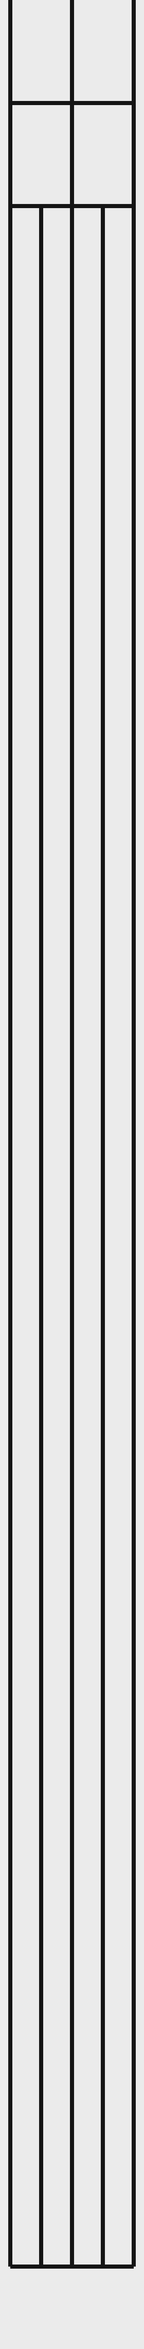
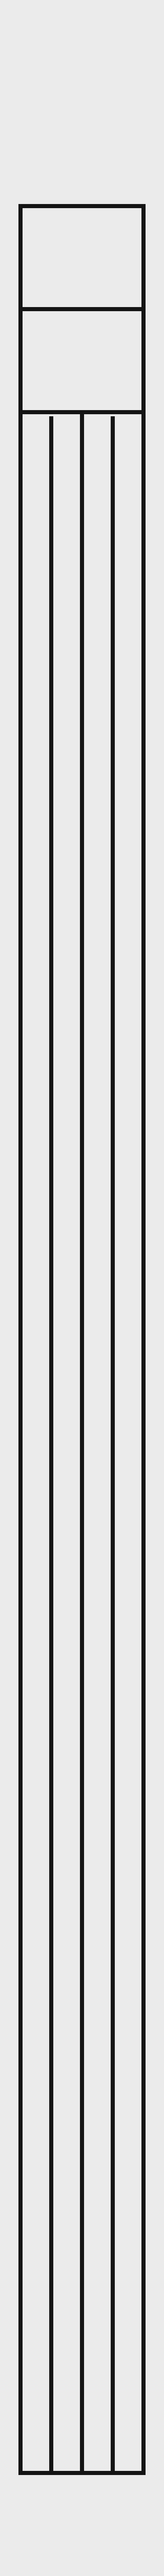
Dragster world from the rules (section IV, Figures 4-6): lanes, finish, stopping zones and the start-light gantry

Changed region(s): [[0.0571, 0.0, 0.9429, 0.9681]]

diff --git a/gazebo/make_world.py b/gazebo/make_world.py
@@ -6,6 +6,9 @@ images where the 20 mm line is 10 px wide, i.e. 2 mm per pixel (Portimao's drawn
 drive axle 37 mm from the back, a 8.94 mm castor ball 128 mm from the back, the camera board at the front.
 
     python gazebo/make_world.py TRACK      (monza | portimao | suzuka | dragster; writes worlds/TRACK.sdf)
+
+The Dragster floor comes from make_dragster_texture.py (rules dimensions) and its world adds the start-light
+gantry over the start line.
 """
 # References (full entries: docs/references.md at the repository root):
 #   [R1] ISEP, TrackBotGP competition rules (2026 Robotics@ISEP Open): track figures
@@ -19,8 +22,8 @@ HERE = os.path.dirname(os.path.abspath(__file__))
 MM_PX = 2.0                      # mm per drawing pixel (20 mm line = 10 px)
 # the finish line on the main straight, in drawing pixels (x, y), and the start heading (up the drawing)
 FINISH_PX = {"monza": (107, 840), "portimao": (109, 804), "suzuka": (116, 409),
-             # dragster (texture from the rules dimensions): left lane centre, just behind the start line
-             "dragster": (100, 5500)}            # the start line (400 mm from the near end)
+             # dragster (make_dragster_texture.py): left lane centre on the start line
+             "dragster": (125, 6000)}
 
 
 def wsl_path(p):
@@ -84,6 +87,36 @@ def robot_model(pose=(0.0, 0.0, 0.0)):
     </model>"""
 
 
+def gantry(x, y):
+    """Start-light gantry of the Dragster rules (IV-3, Figure 6): about 70 cm wide and 30 cm high, over the
+    start line at (x, y), with a "traffic light" (four LEDs, white when on) over the middle of each lane."""
+    alu = "<material><diffuse>0.75 0.76 0.78 1</diffuse></material>"
+    parts = []
+    for i, dx in enumerate((-0.35, 0.35)):           # legs, with feet along the track
+        parts.append(f"""<visual name="leg{i}"><pose>{dx} 0 0.16 0 0 0</pose>
+          <geometry><box><size>0.02 0.02 0.32</size></box></geometry>{alu}</visual>
+        <visual name="foot{i}"><pose>{dx} 0 0.01 0 0 0</pose>
+          <geometry><box><size>0.02 0.30 0.02</size></box></geometry>{alu}</visual>""")
+    parts.append(f"""<visual name="beam"><pose>0 0 0.32 0 0 0</pose>
+          <geometry><box><size>0.72 0.02 0.02</size></box></geometry>{alu}</visual>""")
+    for i, dx in enumerate((-0.15, 0.15)):           # one light per lane, LEDs facing down
+        parts.append(f"""<visual name="light{i}"><pose>{dx} 0 0.285 0 0 0</pose>
+          <geometry><box><size>0.05 0.035 0.05</size></box></geometry>
+          <material><diffuse>0.05 0.05 0.05 1</diffuse></material></visual>""")
+        for j, (lx, ly) in enumerate(((-0.01, -0.006), (0.01, -0.006), (-0.01, 0.006), (0.01, 0.006))):
+            parts.append(f"""<visual name="led{i}{j}"><pose>{dx + lx} {ly} 0.258 0 0 0</pose>
+          <geometry><cylinder><radius>0.0025</radius><length>0.004</length></cylinder></geometry>
+          <material><diffuse>0.9 0.95 1 1</diffuse><emissive>0.9 0.95 1 1</emissive></material></visual>""")
+    return f"""
+    <model name="start_gantry">
+      <static>true</static>
+      <pose>{x:.4f} {y:.4f} 0 0 0 0</pose>
+      <link name="frame">
+        {chr(10).join(parts)}
+      </link>
+    </model>"""
+
+
 def world(track):
     tex = os.path.join(HERE, "media", f"track_{track}.png")
     h_px, w_px = cv2.imread(tex, cv2.IMREAD_GRAYSCALE).shape
@@ -113,10 +146,18 @@ def world(track):
           </material>
         </visual>
       </link>
-    </model>{robot_model(start_pose(track, h_m))}
+    </model>{robot_model(start_pose(track, h_m))}{extras(track, h_m)}
   </world>
 </sdf>
 """, (w_m, h_m)
+
+
+def extras(track, h_m):
+    if track != "dragster":
+        return ""
+    fx, fy = FINISH_PX[track]
+    # the gantry is centred on the two lanes (one lane width right of the left lane's centre), over the start line
+    return gantry(fx * MM_PX / 1000 + 0.15, h_m - fy * MM_PX / 1000)
 
 
 def start_pose(track, h_m):

diff --git a/gazebo/make_dragster_texture.py b/gazebo/make_dragster_texture.py
@@ -1,0 +1,66 @@
+"""Floor texture of the Dragster track (2026 Dragster rules, section IV, Figures 4 and 5), 2 mm per pixel.
+
+Two parallel lanes of 30 cm, each bordered by a 20 mm black stripe and marked down its middle by another;
+10 m from the start line to the 20 mm stripe that ends the lanes (the finish); after it the two stopping
+zones of rules II.10f-g, closed by lines at 0.5 m and 1.0 m past the finish (no centre line there, Figure 4).
+Around it: 0.5 m of floor behind the start line and up to 2 m past the finish (the unobstructed run-out,
+IV-4), 0.1 m at each side. The track runs up the image (the robots start at the bottom), as the TrackBotGP
+drawings are placed in make_world.py.
+
+    python gazebo/make_dragster_texture.py      (writes media/track_dragster.png)
+"""
+# References (full entries: docs/references.md at the repository root):
+#   [R2] ISEP, Dragster competition rules (2026 Robotics@ISEP Open): track dimensions (IV-1, IV-2, Figures 4-5)
+import os
+
+import cv2
+import numpy as np
+
+HERE = os.path.dirname(os.path.abspath(__file__))
+MM_PX = 2.0
+PAPER, INK = 235, 20                 # grey levels of the TrackBotGP drawings (make_world.py textures)
+LINE = 0.020                         # stripe width (m)
+LANE = 0.30                          # lane width, stripe centre to stripe centre (m)
+RACE = 10.0                          # start line to finish stripe (m)
+ZONES = (0.5, 1.0)                   # stopping-zone boundaries past the finish (m)
+BEHIND, RUNOUT, SIDE = 0.5, 2.0, 0.1  # floor margins (m)
+
+# Positions in metres: x across the track from its left border, y along it from the start line.
+WIDTH = 2 * LANE + 2 * SIDE
+LENGTH = BEHIND + RACE + RUNOUT
+START_Y_PX = round((RUNOUT + RACE) * 1000 / MM_PX)         # image row of the start line
+LEFT_LANE_X_PX = round((SIDE + LANE / 2) * 1000 / MM_PX)    # image column of the left lane's centre
+
+
+def px(m):
+    return round(m * 1000 / MM_PX)
+
+
+def main():
+    h, w = px(LENGTH), px(WIDTH)
+    img = np.full((h, w), PAPER, np.uint8)
+
+    def stripe_along(x, y0, y1):        # a stripe along the track, centred on x, from y0 to y1
+        r0, r1 = START_Y_PX - px(y1), START_Y_PX - px(y0)
+        img[r0:r1, px(SIDE + x - LINE / 2):px(SIDE + x + LINE / 2)] = INK
+
+    def stripe_across(y, x0=-LINE / 2, x1=2 * LANE + LINE / 2):
+        img[START_Y_PX - px(y + LINE / 2):START_Y_PX - px(y - LINE / 2), px(SIDE + x0):px(SIDE + x1)] = INK
+
+    end = RACE + ZONES[-1]
+    stripe_along(0.0, 0.0, end)                    # outer borders, through the stopping zones
+    stripe_along(2 * LANE, 0.0, end)
+    stripe_along(LANE, 0.0, RACE)                  # border between the lanes, ends at the finish
+    for c in (LANE / 2, 3 * LANE / 2):             # middle of each lane (the line the robots follow)
+        stripe_along(c, 0.0, RACE - LINE)
+    stripe_across(0.0)                             # start line (rules II.6b)
+    stripe_across(RACE)                            # end of the lanes: the finish
+    for z in ZONES:
+        stripe_across(RACE + z)                    # stopping-zone boundaries
+    out = os.path.join(HERE, "media", "track_dragster.png")
+    cv2.imwrite(out, img)
+    print(f"{out}: {w} x {h} px = {WIDTH:.2f} x {LENGTH:.2f} m; start row {START_Y_PX}, left lane x {LEFT_LANE_X_PX}")
+
+
+if __name__ == "__main__":
+    main()

diff --git a/gazebo/README.md b/gazebo/README.md
@@ -8,7 +8,8 @@ The worlds were built to visualise recorded races. They are **not** used to deve
 
 | File | What it does |
 |---|---|
-| `make_world.py TRACK` | Writes `worlds/TRACK.sdf` for `monza`, `portimao`, `suzuka` or `dragster`. The floor is the circuit drawing of the 2026 TrackBotGP rules at real scale (20 mm line = 10 px, 2 mm per pixel; Portimão's drawn lap is 8.95 m against 8.959 m measured by rope). The Dragster floor comes from the Dragster rule dimensions. The robot model uses Prototype A's measured dimensions, with its front at the start line |
+| `make_world.py TRACK` | Writes `worlds/TRACK.sdf` for `monza`, `portimao`, `suzuka` or `dragster`. The floor is the circuit drawing of the 2026 TrackBotGP rules at real scale (20 mm line = 10 px, 2 mm per pixel; Portimão's drawn lap is 8.95 m against 8.959 m measured by rope). The Dragster floor is drawn by `make_dragster_texture.py`. The robot model uses Prototype A's measured dimensions, with its front at the start line |
+| `make_dragster_texture.py` | Draws the Dragster floor from the Dragster rules (section IV, Figures 4–5): two 30 cm lanes with 20 mm border and centre stripes, 10 m from the start line to the finish stripe, stopping-zone lines 0.5 m and 1.0 m past it, 0.5 m of floor behind the start and a 2 m run-out (0.80 × 12.50 m). The Dragster world adds the start-light gantry of Figure 6 (about 70 × 30 cm, a four-LED light over each lane) over the start line, with Robot A in the left lane |
 | `open_world.sh TRACK` | Closes any running Gazebo, generates the world if it is missing, and opens it (detached, so it survives WSL returning) |
 | `replay_race.py RUN_DIR TRACK [SPEED]` | Replays a race from the follower's `rec.csv`: wheel speed with the IMU heading, gyro bias removed so the race closes on whole turns |
 | `media/track_*.png` | Floor textures |
